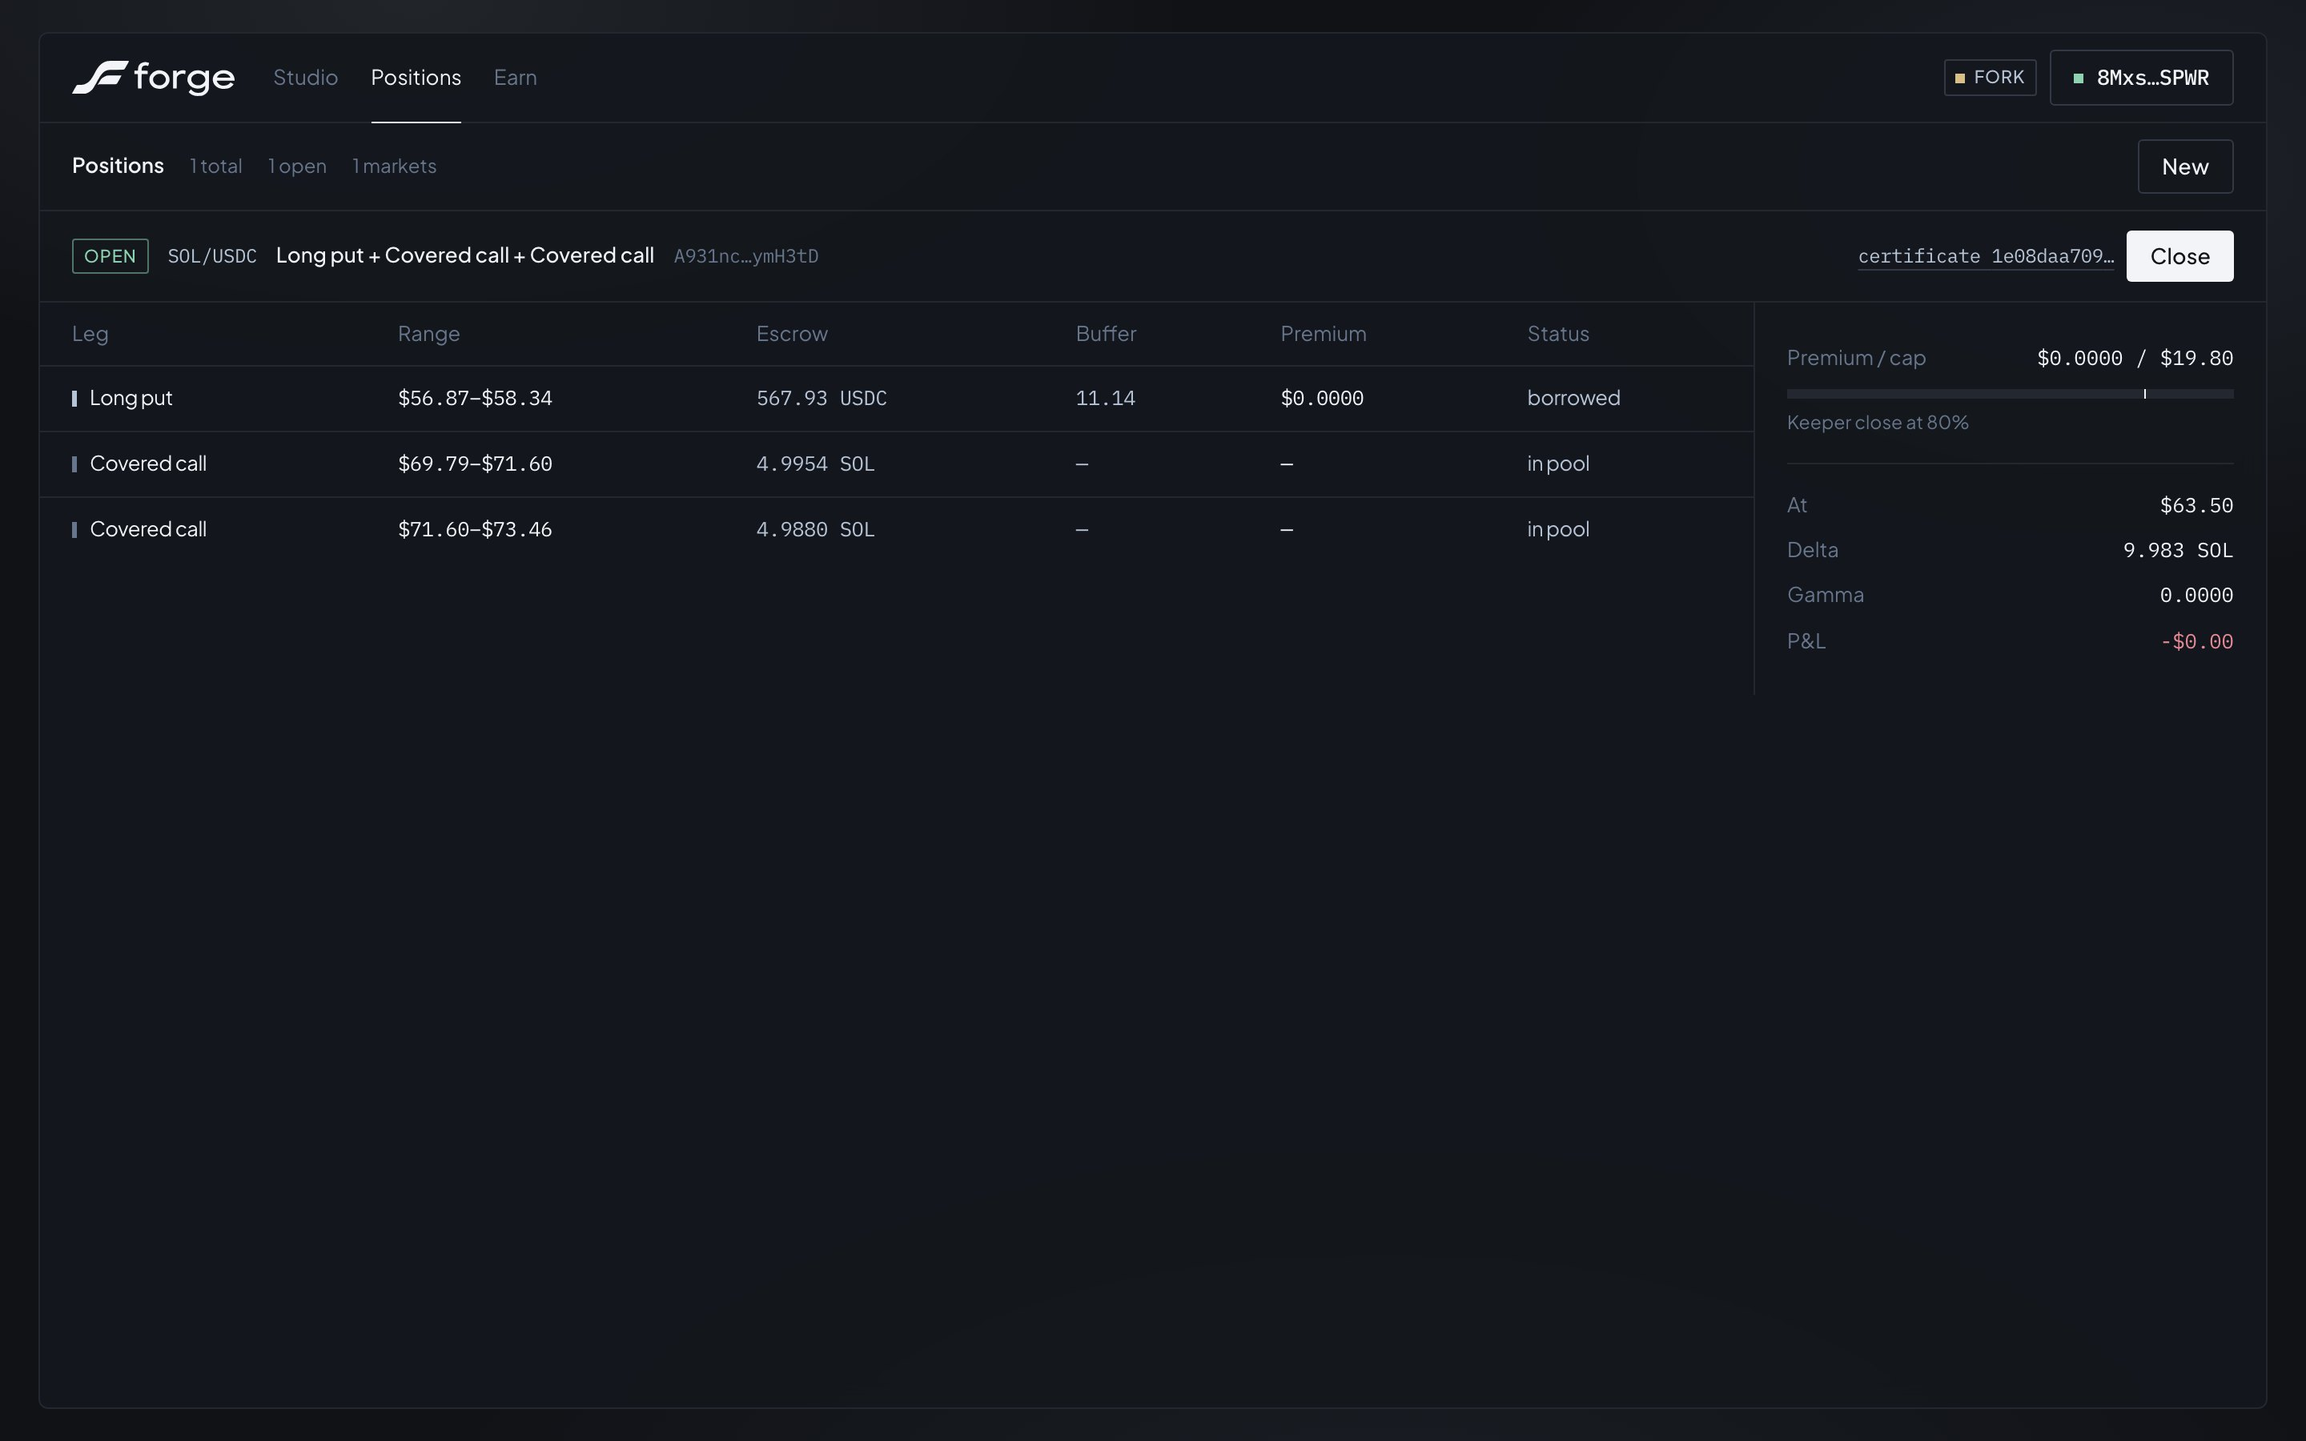
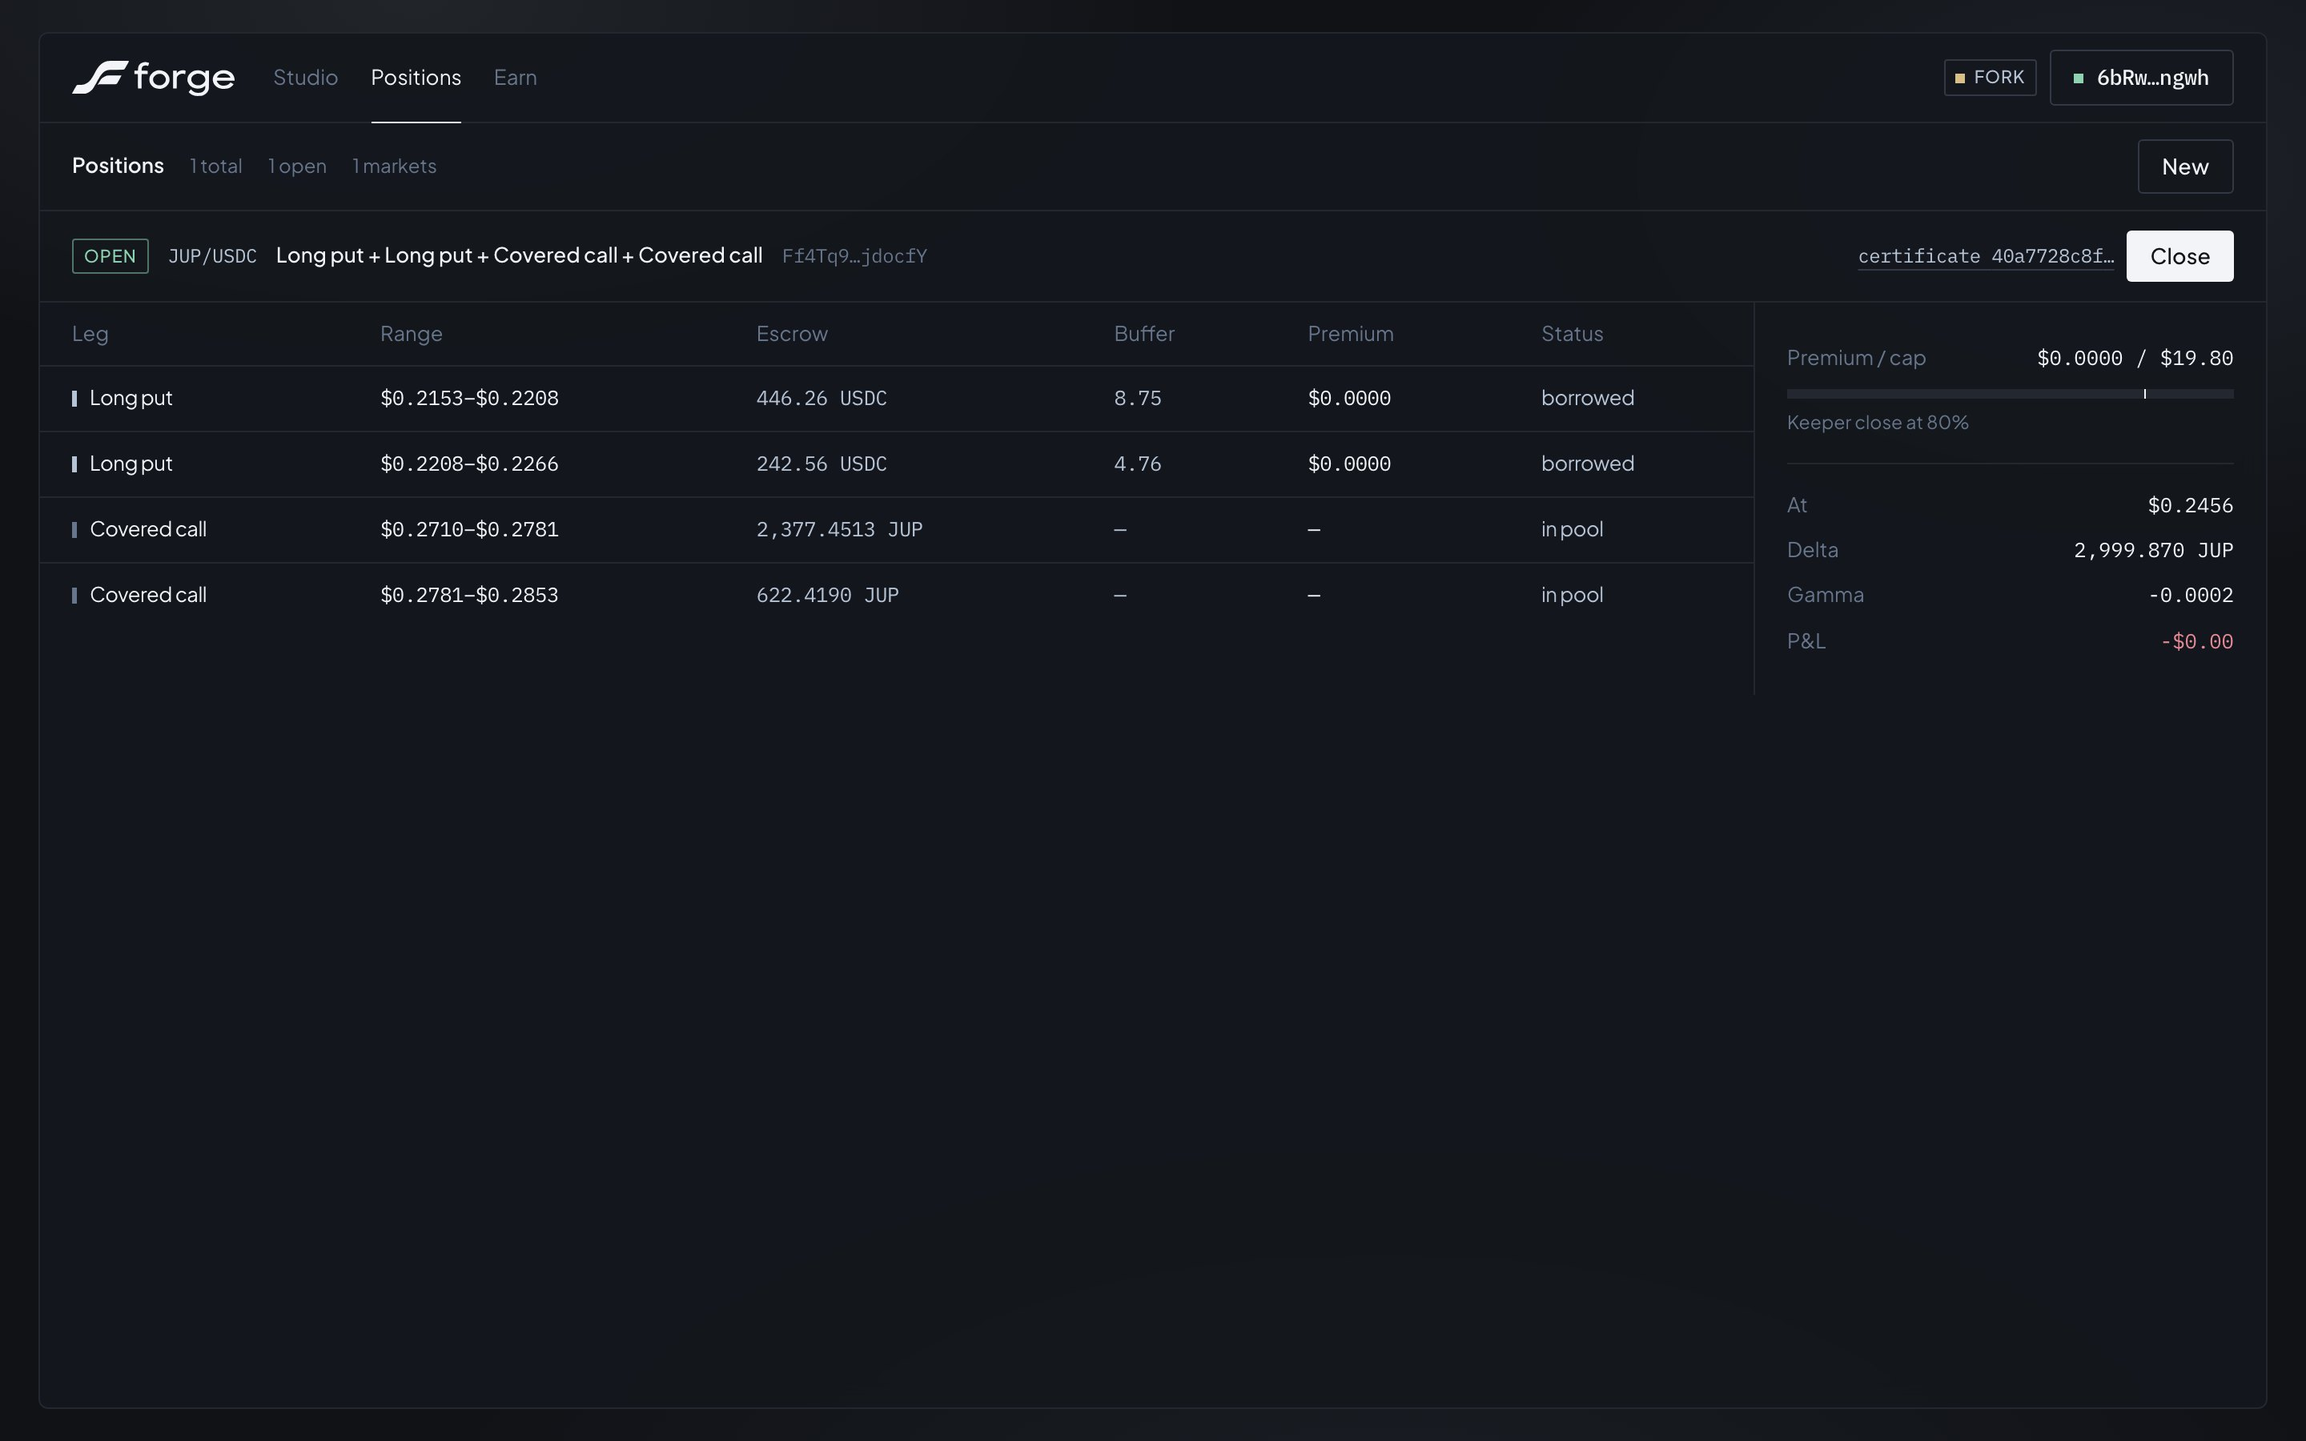
Pitch FORGE as options for tokens without options, shown on JUP

diff --git a/app/src/app/page.tsx b/app/src/app/page.tsx
@@ -20,10 +20,11 @@ const lp = bench.lpGuarantee as unknown as {
   summary: Record<string, { borrows: number; borrows_eligible: number; borrows_guarantee_holds: number; borrows_guarantee_violations: number; borrows_premium_shortfall: number; restoration_failures_total: number; paths: number }>;
 } | null;
 
-const snap = shotMeta as unknown as { openTransactions?: number; spot: number; target: [number, number][]; certifiedBound: number; capitalLocked: number; legs: { kind: string; priceLower: number; priceUpper: number }[] };
-const usd = (n: number, d = 2) => `$${n.toLocaleString("en-US", { minimumFractionDigits: d, maximumFractionDigits: d })}`;
+const snap = shotMeta as unknown as { market: string; base: string; holdings: { base: number }; openTransactions?: number; spot: number; target: [number, number][]; certifiedBound: number; capitalLocked: number; legs: { kind: string; priceLower: number; priceUpper: number }[] };
+const usd = (n: number, d = Math.abs(n) < 1 ? 4 : 2) => `$${n.toLocaleString("en-US", { minimumFractionDigits: d, maximumFractionDigits: d })}`;
 const FLOOR = snap.target[1]!, CAP = snap.target[2]!;
-const PUT = snap.legs.find((l) => l.kind === "borrow_put");
+const PUTS = snap.legs.filter((l) => l.kind === "borrow_put");
+const UNITS = `${snap.holdings.base.toLocaleString("en-US")} ${snap.base}`;
 
 const fmt = (n: number, d = 0) => n.toLocaleString("en-US", { minimumFractionDigits: d, maximumFractionDigits: d });
 
@@ -46,12 +47,12 @@ function Head({ n, kicker, title, intro }: { n: string; kicker: string; title: R
 const TRADER: Step[] = [
   {
     title: "Draw what you want",
-    body: `You hold 10 SOL at ${usd(snap.spot)}. You want it never worth less than ${usd(FLOOR[1], 0)}, and you're fine giving up gains above ${usd(CAP[1], 0)}. Pick "Collar" or drag the points yourself.`,
+    body: `You hold ${UNITS} at ${usd(snap.spot, 4)}. You want it never worth less than ${usd(FLOOR[1], 0)}, and you're fine giving up gains above ${usd(CAP[1], 0)}. There is no ${snap.base} options market to buy that from. In FORGE you pick "Collar" or drag the points yourself.`,
     shot: "/shots/studio-draw.jpg", path: "/studio", alt: "Studio with a collar drawn over the bucket ladder",
   },
   {
     title: "FORGE finds the ranges",
-    body: `It borrows LP liquidity just below the floor (${PUT ? `${usd(PUT.priceLower)}–${usd(PUT.priceUpper)}` : "below the price"}) and places your SOL in ranges around the cap. The result matches your line to within ±${usd(snap.certifiedBound)}, checked exactly and written into a certificate.`,
+    body: `It borrows LP liquidity just below the floor (${PUTS.length ? `${usd(Math.min(...PUTS.map((l) => l.priceLower)), 4)}–${usd(Math.max(...PUTS.map((l) => l.priceUpper)), 4)}` : "below the price"}) and places your ${snap.base} in ranges around the cap. The result matches your line to within ±${usd(snap.certifiedBound)}, checked exactly and written into a certificate.`,
     shot: "/shots/studio-compiled.jpg", path: "/studio", alt: "Compiled collar with cost and certificate",
   },
   {
@@ -68,8 +69,8 @@ const TRADER: Step[] = [
 
 const FAQ = [
   ["Is this an options exchange?", "No order book. Each position is built from Orca liquidity ranges: a borrowed range below the price acts as a put, one above as a call. LPs who deposit into FORGE buckets are the other side and are paid a premium."],
-  ["Which tokens work?", "Any token with an Orca Whirlpool and a Pyth price feed. The math is the same for every pool, so a new market is one command: point it at the pool, a second pool for restoration swaps, and the feed. The demo fork runs SOL/USDC and JUP/USDC."],
-  ["Where do the numbers on this page come from?", "From committed benchmark runs on a Surfpool mainnet fork and ten months of Binance SOL/USDC prices. Nothing is typed in by hand; rerun them with benchmarks/run_all.py --fork."],
+  ["Which tokens work?", "Any token with an Orca Whirlpool and a Pyth price feed. The math is the same for every pool, so a new market is one command: point it at the pool, a second pool for restoration swaps, and the feed. The demo fork runs SOL, JUP and BONK against USDC; add another token from the Studio with “+ Add”."],
+  ["Where do the numbers on this page come from?", "From committed benchmark runs on a Surfpool mainnet fork and ten months of Binance prices for the token shown. Nothing is typed in by hand; rerun them with benchmarks/run_all.py --fork."],
   ["What does an LP risk?", "Borrowed liquidity needs a 24-hour notice to withdraw. The guarantee is conditional: finite buffers, capped premium budgets and failed restorations can produce shortfalls, which are recorded and pause new borrowing."],
   ["Is the certified bound the whole cost?", "No. It covers replication error over the stated price range. Premium, pool fees and settlement swap costs are reported separately."],
   ["Are opens and closes atomic?", "Not across batches. Large positions span several transactions; pending states and recovery are explicit and anyone can continue them."],
@@ -137,7 +138,7 @@ export default function Landing() {
                 How it works
               </div>
               <h2 className="mt-4 font-display text-[clamp(1.9rem,3.2vw,2.9rem)] font-semibold leading-[1] tracking-[-0.03em]">One example, start to finish.</h2>
-              <p className="mt-3 max-w-md text-[14px] leading-relaxed text-ink-2">Protecting 10 SOL with a collar. Real screens from the Studio, captured on the fork.</p>
+              <p className="mt-3 max-w-md text-[14px] leading-relaxed text-ink-2">{`Protecting ${UNITS} with a collar. Real screens from the Studio, captured on the fork.`}</p>
             </>
           }
         />
@@ -150,9 +151,9 @@ export default function Landing() {
             <div className="num flex items-center gap-3 text-[12px] text-ink-3"><span className="text-ink">02</span><span className="h-px w-8 bg-line-strong" />The idea</div>
             <h2 className="mt-5 font-display text-[clamp(2rem,4vw,3.3rem)] font-semibold leading-[0.98] tracking-[-0.03em]">Concentrated liquidity already is an option.</h2>
             <p className="mt-6 max-w-lg text-[15px] leading-relaxed text-ink-2">
-              An Orca range below the price holds only USDC. FORGE borrows it and locks that USDC. If SOL falls through the
+              An Orca range below the price holds only USDC. FORGE borrows it and locks that USDC. If the token falls through the
               range, giving the liquidity back costs less than what was locked, and you keep the difference. That is a put.
-              Do the same above the price with SOL and you get a call.
+              Do the same above the price with the token itself and you get a call.
             </p>
             <div className="num mt-8 border-l border-accent pl-5 text-[14px] leading-8 text-ink-2">
               <div>V(P) = L(2√P − P/√p<sub>b</sub> − √p<sub>a</sub>)</div>
@@ -298,7 +299,7 @@ export default function Landing() {
         <div className="mx-auto max-w-[1480px] px-5 py-28 sm:px-8">
           <Reveal>
             <h2 className="max-w-4xl font-display text-[clamp(2.2rem,5.4vw,4.8rem)] font-semibold leading-[0.95] tracking-[-0.035em]">
-              Protect 10 SOL below a floor. Cap the upside. <span className="text-ink-3">Watch it settle.</span>
+              Pick a token. Draw a floor and a cap. <span className="text-ink-3">Watch it settle.</span>
             </h2>
             <div className="mt-10 flex flex-wrap items-center gap-3">
               <Link href="/studio" className="btn btn-primary !px-5 !py-2.5">Open the Studio</Link>

diff --git a/app/src/components/landing/Hero.tsx b/app/src/components/landing/Hero.tsx
@@ -5,9 +5,10 @@ import { useEffect, useRef } from "react";
 import meta from "../../../public/shots/meta.json";
 import { Stars } from "./Stars";
 
-type Meta = { spot: number; target: [number, number][]; certifiedBound: number; maxErrorAt: number; solveMs: number; capitalLocked: number; holdings: { base: number } };
+type Meta = { market: string; base: string; spot: number; target: [number, number][]; certifiedBound: number; maxErrorAt: number; solveMs: number; capitalLocked: number; holdings: { base: number } };
 const m = meta as unknown as Meta;
-const usd = (n: number, d = 2) => `$${n.toLocaleString("en-US", { minimumFractionDigits: d, maximumFractionDigits: d })}`;
+const units = m.holdings.base.toLocaleString("en-US");
+const usd = (n: number, d = Math.abs(n) < 1 ? 4 : 2) => `$${n.toLocaleString("en-US", { minimumFractionDigits: d, maximumFractionDigits: d })}`;
 
 /** The collar from the snapshot, as a small polyline. */
 function Sparkline({ className = "" }: { className?: string }) {
@@ -77,14 +78,15 @@ export function Hero() {
             </svg>
             <span className="num text-[11px] uppercase tracking-[0.28em] text-ink-2">Built on Solana</span>
             <span className="h-px w-10 bg-line-strong" aria-hidden />
-            <span className="num text-[11px] uppercase tracking-[0.28em] text-ink-3">Orca liquidity</span>
+            <span className="num text-[11px] uppercase tracking-[0.28em] text-ink-3">Any Orca token</span>
           </div>
           <h1 className="hero-in mt-[min(1.75rem,3vh)] font-display text-[clamp(2.2rem,min(4.2vw,7.4vh),5.2rem)] font-semibold leading-[1.02] tracking-[-0.04em]" style={{ animationDelay: "160ms" }}>
-            Draw a payoff. Get it built from <span className="text-ink-3">Orca liquidity.</span>
+            Options for tokens <span className="text-ink-3">that don&apos;t have any.</span>
           </h1>
           <p className="hero-in mt-[min(1.75rem,3vh)] max-w-xl text-[clamp(14px,min(1.15vw,2.5vh),17px)] leading-relaxed text-ink-2" style={{ animationDelay: "260ms" }}>
-            Pick any Solana token with Orca liquidity and set what it should be worth at close, for example <span className="text-ink">10 SOL never below {usd(floor[1], 0)}, gains capped at {usd(cap[1], 0)}</span>.
-            FORGE builds that payoff from the token&apos;s own liquidity ranges, certifies the worst-case error and opens it as your on-chain position.
+            Most Solana tokens trade on Orca but have no options market. Draw the payoff you want, for example{" "}
+            <span className="text-ink">{units} {m.base} never worth less than {usd(floor[1], 0)}, gains capped at {usd(cap[1], 0)}</span>, and FORGE builds it
+            from the token&apos;s own liquidity, certifies the worst-case error and opens it on-chain.
           </p>
           <div className="hero-in mt-[min(2.25rem,4vh)] flex flex-wrap gap-3" style={{ animationDelay: "360ms" }}>
             <Link href="/studio" className="btn btn-primary !px-6 !py-3 !text-[15px]">
@@ -97,14 +99,14 @@ export function Hero() {
         {/* tilted Studio with cards from the same compile */}
         <div className="hero-stage relative z-0 mx-auto w-full max-w-[calc((100dvh-150px)*1.6)] lg:ml-[-2rem] lg:mr-auto lg:w-[94%]">
           <div className="hero-screen relative overflow-hidden rounded-[10px] border border-[rgba(183,196,214,0.16)] bg-bg shadow-[0_50px_140px_-30px_rgba(5,6,8,0.95),0_0_80px_-10px_rgba(183,196,214,0.10)]">
-            <img src="/shots/studio-compiled.jpg" alt="The Studio after compiling a collar on 10 SOL: payoff chart, ranges, cost and certificate" className="block w-full" />
+            <img src="/shots/studio-compiled.jpg" alt={`The Studio after compiling a collar on ${units} ${m.base}: payoff chart, ranges, cost and certificate`} className="block w-full" />
             <div className="pointer-events-none absolute inset-0 bg-[linear-gradient(115deg,rgba(242,244,248,0.07),transparent_32%)]" />
             <div className="pointer-events-none absolute inset-0 shadow-[inset_0_0_60px_10px_rgba(16,18,22,0.85)]" />
             <div className="pointer-events-none absolute inset-x-0 bottom-0 h-1/3 bg-gradient-to-t from-bg/90 to-transparent" />
           </div>
 
           <div className="hero-card float-a absolute -bottom-6 left-[-4%] w-[min(280px,46%)] sm:left-[-6%]">
-            <div className="cap">Collar · {m.holdings.base} SOL</div>
+            <div className="cap">Collar · {units} {m.base}</div>
             <div className="mt-1 flex items-end justify-between gap-3">
               <div>
                 <div className="num text-[22px] font-medium leading-none">{usd(floor[1], 0)}</div>
@@ -121,7 +123,7 @@ export function Hero() {
           </div>
 
           <div className="hero-card float-c absolute -top-6 right-[8%] hidden w-[min(200px,34%)] md:block">
-            <div className="cap">SOL/USDC at snapshot</div>
+            <div className="cap">{m.market} at snapshot</div>
             <div className="num mt-1 text-[22px] font-medium leading-none">{usd(m.spot)}</div>
             <div className="cap mt-1.5">Orca Whirlpool</div>
           </div>

diff --git a/app/src/app/layout.tsx b/app/src/app/layout.tsx
@@ -7,9 +7,9 @@ const jakarta = Plus_Jakarta_Sans({ subsets: ["latin"], weight: ["400", "500", "
 const mono = IBM_Plex_Mono({ subsets: ["latin"], weight: ["400", "500", "600"], variable: "--font-plex-mono", display: "swap" });
 
 export const metadata: Metadata = {
-  title: "FORGE — custom payoffs from Orca liquidity",
+  title: "FORGE — options for tokens that don't have options",
   description:
-    "Draw what a token should be worth to you at close. FORGE builds that payoff from the token's Orca Whirlpool liquidity, certifies the worst-case error and opens it as an on-chain position. Works for any Whirlpool; LPs who lend the ranges earn a premium.",
+    "Most Solana tokens have an Orca pool but no options market. Draw the payoff you want and FORGE builds it from the token's own liquidity, certifies the worst-case error and opens it on-chain. LPs who lend the liquidity earn a premium.",
   icons: { icon: "/icon.svg" },
 };
 

diff --git a/app/src/lib/market.tsx b/app/src/lib/market.tsx
@@ -115,7 +115,8 @@ function AddMarket({ onAdded }: { onAdded: (name: string) => void }) {
   );
 }
 
-export function MarketPicker({ markets, value, onChange }: { markets: MarketInfo[]; value: MarketInfo | null; onChange: (name: string) => void }) {
+export function MarketPicker({ markets: all, value, onChange }: { markets: MarketInfo[]; value: MarketInfo | null; onChange: (name: string) => void }) {
+  const markets = [...all].sort((a, b) => a.name.localeCompare(b.name, "en", { sensitivity: "base" }));
   return (
     <span className="flex items-center gap-2">
       {markets.length > 3 ? (
